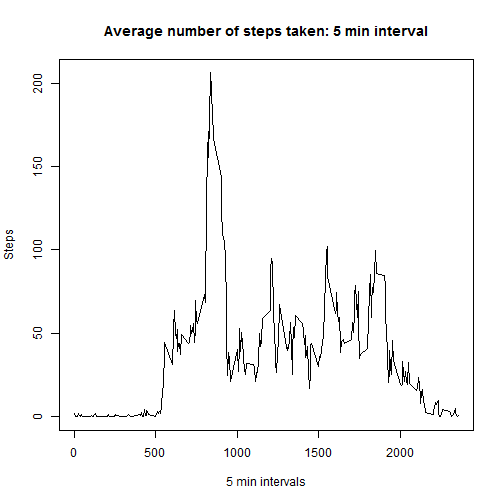
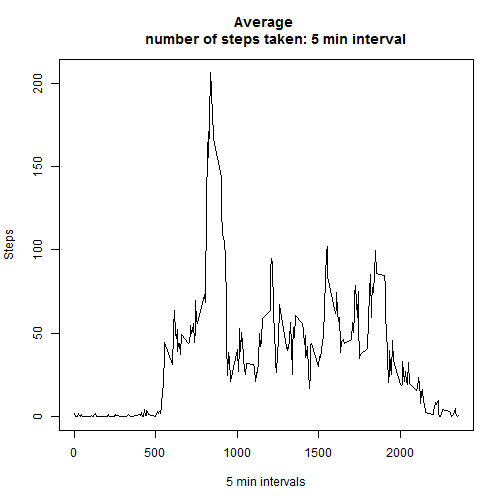
updated content

Changed region(s): [[0.2083, 0.0298, 0.8631, 0.0893]]

diff --git a/PA1_template.html b/PA1_template.html
@@ -215,10 +215,10 @@ median(aggdata[, 2], na.rm = TRUE)
 
 <pre><code class="r"># Aggreagate data, steps by interval
 aggdata2 &lt;- aggregate(data$steps ~ data$interval, data = data, FUN = mean, na.rm = T)
-plot(aggdata2, type = &quot;l&quot;, xlab = &quot;5 min intervals&quot;, ylab = &quot;Steps&quot;, main = &quot;Average number of steps taken: 5 min interval&quot;)
+plot(aggdata2, type = &quot;l&quot;, xlab = &quot;5 min intervals&quot;, ylab = &quot;Steps&quot;, main = &quot;Average \n     number of steps taken: 5 min interval&quot;)
 </code></pre>
 
[2 lines of base64/hex data omitted]
 
 <pre><code class="r"># Which 5-minute interval, on average across all the days in the dataset,
 # contains the maximum number of steps?

diff --git a/PA1_template.md b/PA1_template.md
@@ -46,7 +46,7 @@ median(aggdata[, 2], na.rm = TRUE)
 ```r
 # Aggreagate data, steps by interval
 aggdata2 <- aggregate(data$steps ~ data$interval, data = data, FUN = mean, na.rm = T)
-plot(aggdata2, type = "l", xlab = "5 min intervals", ylab = "Steps", main = "Average number of steps taken: 5 min interval")
+plot(aggdata2, type = "l", xlab = "5 min intervals", ylab = "Steps", main = "Average \n     number of steps taken: 5 min interval")
 ```
 
 ![plot of chunk unnamed-chunk-3](figure/unnamed-chunk-3.png) 
